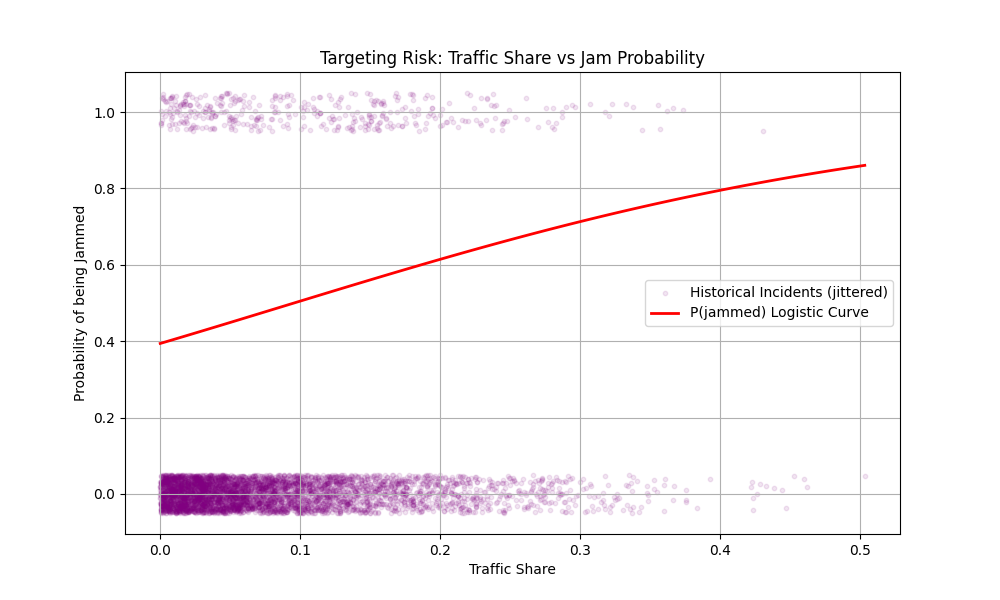
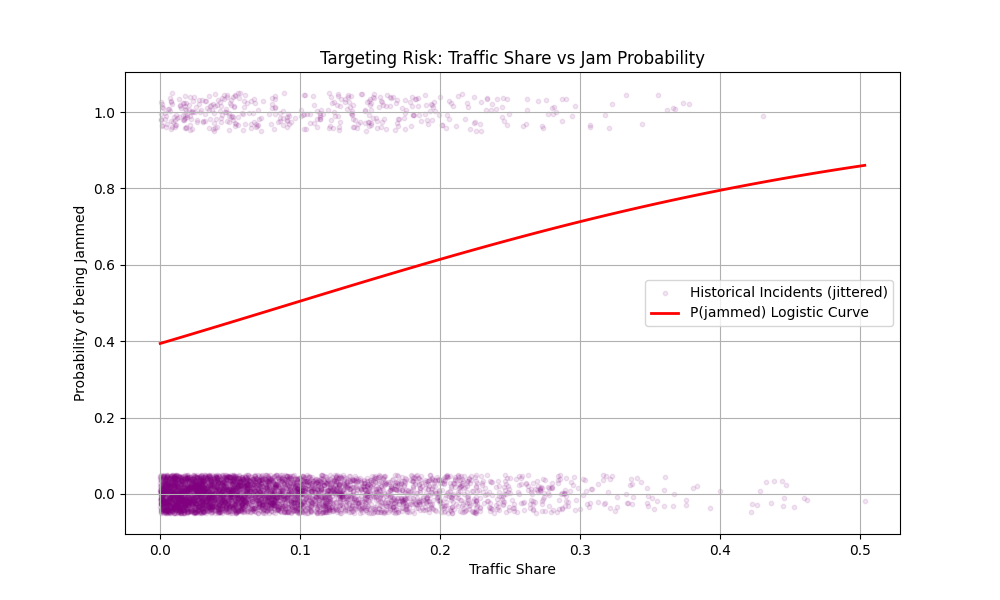
fix copilot architecture & update trust model metric and latency calculation

Changed region(s): [[0.155, 0.78, 0.713, 0.87], [0.155, 0.15, 0.589, 0.24], [0.744, 0.78, 0.806, 0.87]]

diff --git a/backend/training/train_trust_model.py b/backend/training/train_trust_model.py
@@ -17,9 +17,10 @@ def train_trust_model():
     
     Instead of training an ML classifier with an arbitrary threshold,
     this model:
-      1. Computes deviation_ratio = |reported - measured| / measured
-      2. Fits a Gaussian to the "honest bulk" of deviation ratios (data-driven)
-      3. Uses P(deceptive) = 1 - CDF(deviation | mu, sigma) per observation
+      1. Computes ratio = self_reported / measured
+         (Chimera under-reports → ratio < 1.0; honest links → ratio ≈ 1.0)
+      2. Fits a Gaussian to the "honest bulk" of ratios (data-driven)
+      3. Uses P(deceptive) = CDF(ratio | mu, sigma) — how far below normal
       4. Performs soft Bayesian updates: alpha += P(honest), beta += P(deceptive)
       5. Stores per-link Beta(alpha, beta) parameters
     
@@ -33,14 +34,13 @@ def train_trust_model():
     df = df.dropna(subset=['self_reported_latency_ms', 'measured_latency_ms']).copy()
     df = df[df['measured_latency_ms'] > 0]  # Avoid division by zero
     
-    # 2. Compute deviation ratio for all observations
-    df['deviation_ratio'] = (
-        np.abs(df['self_reported_latency_ms'] - df['measured_latency_ms']) 
-        / df['measured_latency_ms']
-    )
+    # 2. Compute ratio: reported / measured
+    #    Honest link → ratio ≈ 1.0
+    #    Chimera-spoofed link → ratio < 1.0 (reports faster than reality)
+    df['ratio'] = df['self_reported_latency_ms'] / df['measured_latency_ms']
     
     # 3. Fit a Gaussian to the "honest bulk" of the data
-    all_ratios = df['deviation_ratio'].values
+    all_ratios = df['ratio'].values
     median_ratio = np.median(all_ratios)
     mad = np.median(np.abs(all_ratios - median_ratio))
     robust_sigma = mad * 1.4826
@@ -51,7 +51,8 @@ def train_trust_model():
     print(f"  Honest distribution: mu={mu_honest:.4f}, sigma={sigma_honest:.4f}")
     
     # 4. For each observation, compute P(deceptive)
-    df['p_deceptive'] = 1.0 - stats.norm.cdf(df['deviation_ratio'], loc=mu_honest, scale=sigma_honest)
+    #    CDF gives P(X <= ratio) — the lower the ratio, the more deceptive
+    df['p_deceptive'] = stats.norm.cdf(df['ratio'], loc=mu_honest, scale=sigma_honest)
     df['p_honest'] = 1.0 - df['p_deceptive']
     
     # 5. Soft Bayesian update per link

diff --git a/backend/core/copilot.py b/backend/core/copilot.py
@@ -78,6 +78,7 @@ def evaluate_route(text=None, origin=None, destination=None,
     chosen_path = [current_node]
     link_evaluations = []
     total_combined_cost = 0.0
+    total_estimated_latency = 0.0
     initial_route_changed = False
 
     while current_node != destination:
@@ -120,6 +121,7 @@ def evaluate_route(text=None, origin=None, destination=None,
         if eval_dict:
             link_evaluations.append(eval_dict)
             total_combined_cost += eval_dict['combined_cost']
+            total_estimated_latency += eval_dict['estimated_latency_ms']
             
             # Update route diversity tracker
             _recent_routes[link_id] += 1
@@ -149,7 +151,7 @@ def evaluate_route(text=None, origin=None, destination=None,
         'destination_id': destination,
         'chosen_path': chosen_path,
         'link_evaluations': link_evaluations,
-        'final_latency_estimate_ms': round(total_combined_cost, 1),
+        'final_latency_estimate_ms': round(total_estimated_latency, 1),
         'explanation': '; '.join(explanation_parts)
     }
 
@@ -215,12 +217,24 @@ def _evaluate_link_cost(link_id, current_node, next_node, uni, live_states):
         diversity_penalty
     )
 
+    # -- Estimate real latency using trust-weighted blend --
+    # Our model's prediction: physics baseline + predicted congestion penalty
+    model_latency = Tv + congestion_penalty
+    
+    # If we have live self-reported latency, blend it with our model based on trust.
+    # High trust → believe the link's self-report. Low trust → rely on our model.
+    if self_reported_latency is not None and self_reported_latency > 0:
+        estimated_latency = (trust_score * self_reported_latency) + ((1.0 - trust_score) * model_latency)
+    else:
+        estimated_latency = model_latency
+
     eval_dict = {
         'link_id': link_id,
         'predicted_congestion_penalty_ms': round(congestion_penalty, 1),
         'trust_score': round(trust_score, 2),
         'targeting_risk_score': round(targeting_risk, 2),
-        'combined_cost': round(combined_cost, 1)
+        'combined_cost': round(combined_cost, 1),
+        'estimated_latency_ms': round(estimated_latency, 1)
     }
 
     return combined_cost, eval_dict

diff --git a/backend/inference/congestion_model.py b/backend/inference/congestion_model.py
@@ -21,7 +21,14 @@ def predict_congestion_penalty(link_id, load_ratio, capacity_units=None):
     if link_data:
         coeffs = link_data['poly_coeffs']
         base_latency = link_data['base_latency']
+        sat_threshold = link_data.get('saturation_threshold', 0.90)
+        
+        # If traffic pushes past the invisible threshold, it is completely throttled
+        if load_ratio >= sat_threshold:
+            return float('inf')
+            
         predicted_latency = np.polyval(coeffs, load_ratio)
+        print(f"link: {link_id}, load_ratio: {load_ratio}, Predicted latency: {predicted_latency}")
         penalty = predicted_latency - base_latency
         return max(0.0, float(penalty))
     return 0.0

diff --git a/backend/inference/targeting_model.py b/backend/inference/targeting_model.py
@@ -23,6 +23,7 @@ def compute_targeting_risk(link_id, traffic_share):
         ts_log = np.log1p(ts)
         X = np.array([[ts, ts_sq, ts_log]])
         prob = clf.predict_proba(X)[0][1]
+        print(f"link: {link_id}, traffic_share: {traffic_share}, Targeting probability: {float(prob)}")
         return float(prob)
     except Exception:
         return 0.0
